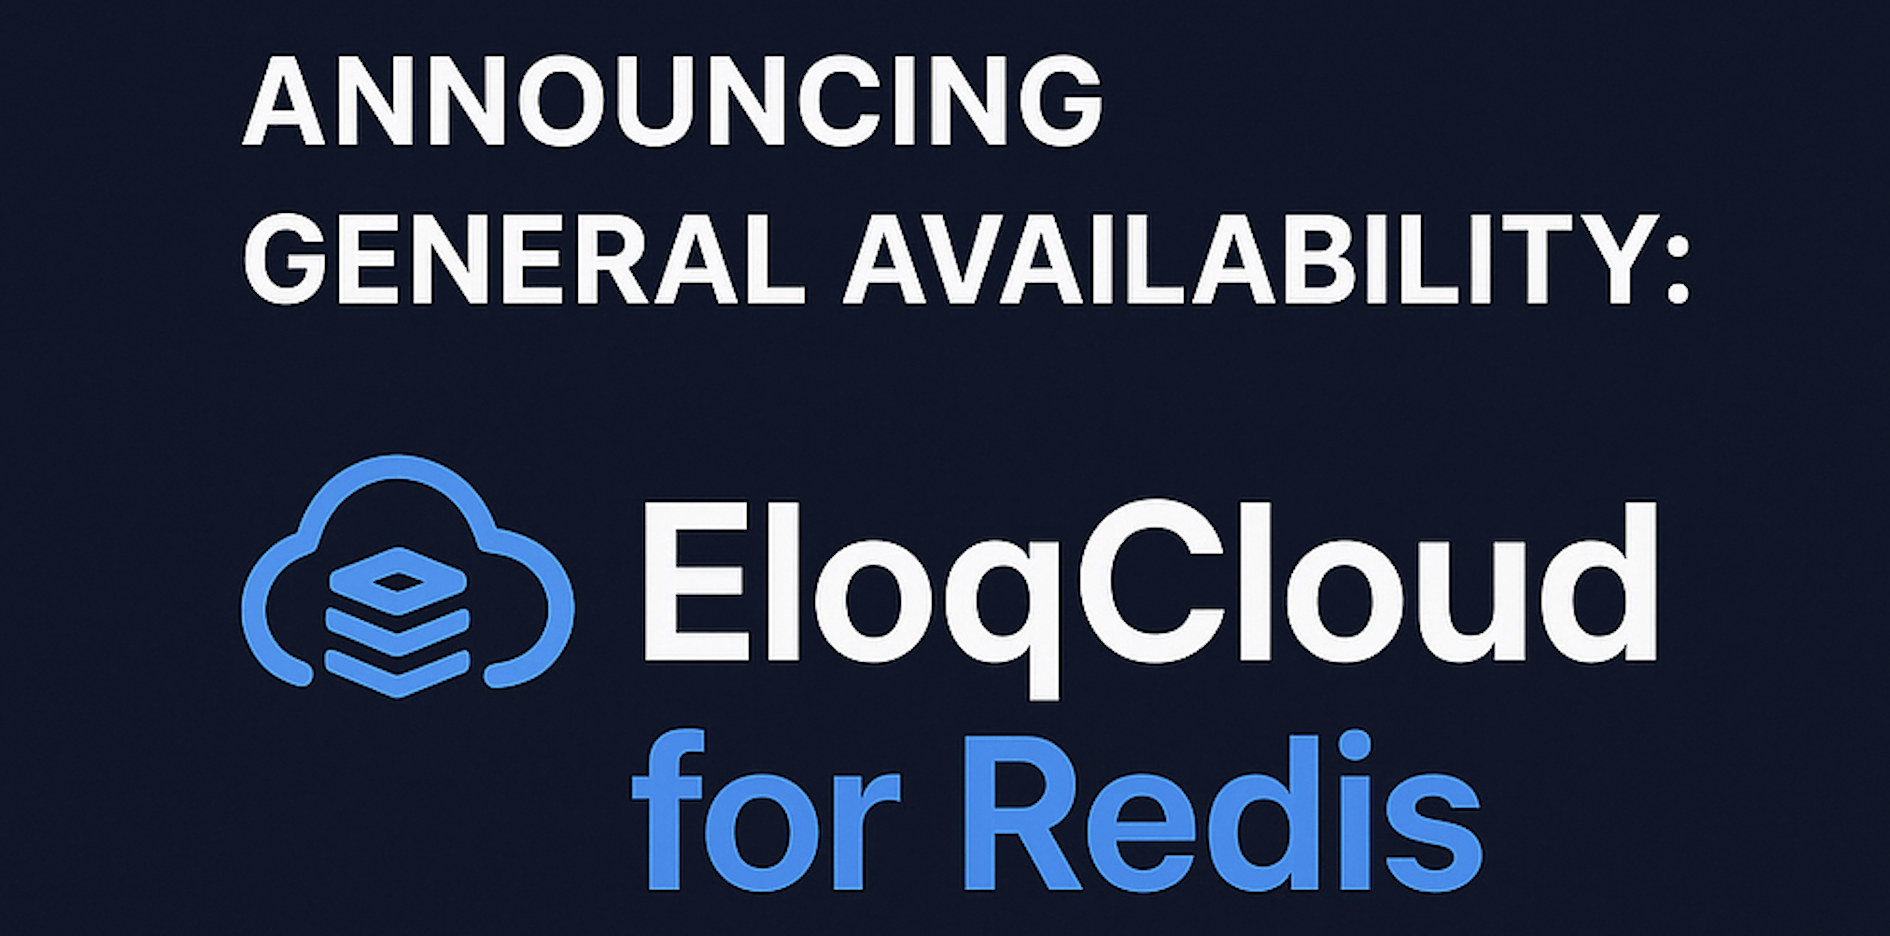
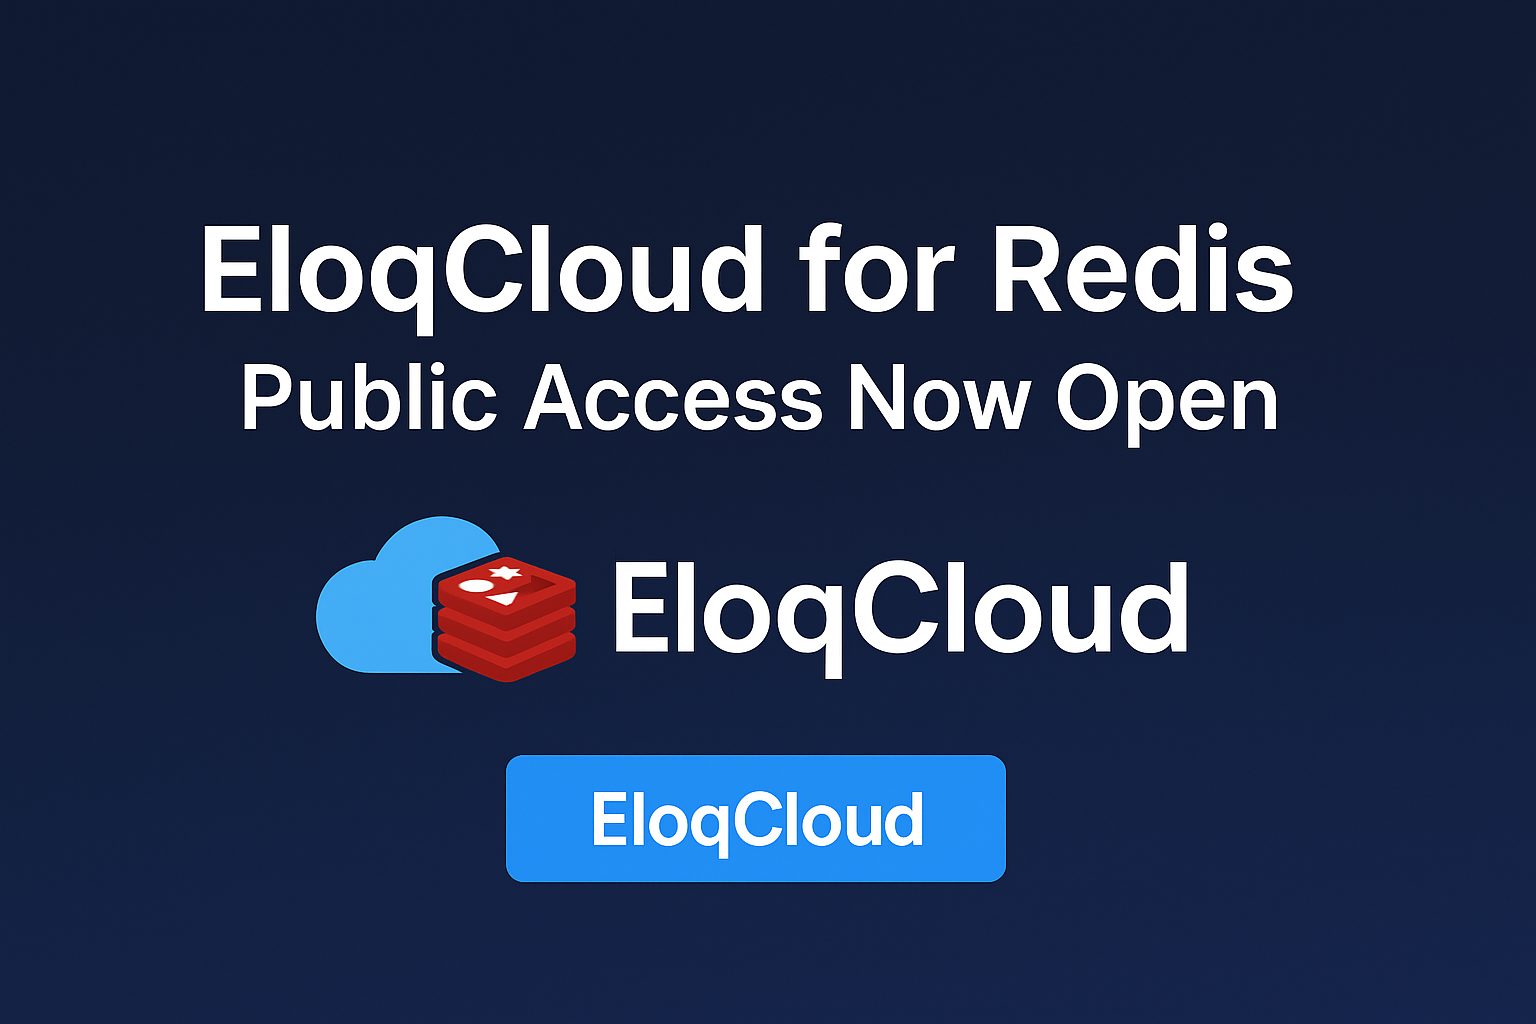
Translate News

diff --git a/website/newsposts/2025-04-29-eloqcloud/index.md b/website/newsposts/2025-04-29-eloqcloud/index.md
@@ -1,90 +1,92 @@
 ---
-title: 'Announcing General Availability: EloqCloud for Redis'
+title: 'EloqCloud for Redis：现已开放公共访问'
 authors: eloq
 date: 2025-04-29
 tags: [Product]
 news: true
 image: /img/blog/eloqcloud_announce.png
-description: Announcing our first cloud native offering EloqCloud for Redis - a cloud-native transactional key-value database with full Redis API compatibility.
+description: 宣布我们的首个云原生产品 EloqCloud for Redis - 一个兼容Redis API的云原生事务型键值数据库。
 newsFeatured: true
 ---
 
-We’re excited to announce the **General Availability (GA)** of **EloqCloud for Redis**, the first product in the EloqCloud family!
+我们很高兴地宣布 **EloqCloud for Redis** 的**公共访问**现已开放，这是 EloqCloud 产品系列的第一个产品！
 
 <!--truncate-->
 
-**EloqCloud** is the SaaS platform for **EloqDB**, designed to deliver an **economical, scalable, and predictable** cloud experience for developers — using the APIs they already love.
+**EloqCloud** 是 **EloqDB** 的 SaaS 平台，旨在为开发者提供**经济、可扩展且可预测**的云端体验 — 并由开发者选择使用自己熟悉的 API。
 
-EloqCloud is a **product matrix**, supporting a variety of compute APIs, from **SQL**, **Redis**, **MongoDB**, **Vector**, **Graph**, and even an all-in-one solution, [ConvergedDB](/blog/2025/03/19/agentic).  
-These will roll out over time — and today, we're thrilled to introduce **EloqCloud for Redis**.
+EloqCloud 是一个**产品矩阵**，支持多种计算 API，包括 **SQL**、**Redis**、**MongoDB**、**Vector**、**Graph**，甚至还有一个全能型解决方案 [ConvergedDB](/blog/2025/03/19/agentic)。  
+这些产品将陆续推出 — 今天，我们很兴奋地介绍 **EloqCloud for Redis**。
 
-## What is EloqCloud for Redis?
+## 什么是 EloqCloud for Redis？
 
-In short, **EloqCloud for Redis** is a **cloud-native transactional key-value database** with full **Redis API compatibility**.
+简而言之，**EloqCloud for Redis** 是一个具有完整 **Redis API 兼容性**的**云原生事务型键值数据库**。
 
-Note that it's more than just a cache — it's a real database, built for **durability**, **availability**, and **performance**. Every write is **replicated before acknowledging** to the client. It supports **cross-AZ persistence** to withstand **Availability Zone failures**.
+需要注意的是，它不仅仅是一个缓存 — 它是一个真正的数据库，专为**持久性**、**可用性**和**性能**而构建。每次写入都会在**确认之前进行复制**。它支持**跨可用区持久化**以应对**可用区故障**。
 
-Here’s a closer look at its key features:
+让我们来看看它的主要特性：
 
 ---
 
-## 🔥 Key Features
+## 🔥 主要特性
 
 **1. Scale to Zero**  
-Automatically free up all compute resources when idle — and save costs. No usage? No bill.
+在空闲时自动释放所有计算资源 — 节省成本。没有使用就没有费用。
 
-**2. Dedicated Resources**  
-Choose the SKU that fits your workload. Resources are **dedicated**, ensuring **predictable performance** without noisy neighbors.
+**2. 专属资源**  
+选择适合您工作负载的规格。资源是**专属的**，确保**可预测的性能**，没有嘈杂”邻居“的影响。
 
-**3. Economic High Availability**  
-Why pay for [2x or 3x replicas](https://www.mongodb.com/docs/manual/replication) just to achieve high availability?  
-With **EloqCloud for Redis**, **one compute replica** is enough.  
-Our [Data Substrate](/blog/2024/08/11/data-substrate) architecture decouples compute, memory, log and storage, enabling:
+**3. 经济高可用**  
+为什么要为了实现高可用而支付[多副本](https://www.mongodb.com/docs/manual/replication)费用？  
+使用 **EloqCloud for Redis**，**一个计算副本**就足够了。  
+我们的[数据基层](/blog/2024/08/11/data-substrate)将计算、内存、日志和存储分离，实现：
 
-- **Automatic failover within 10 seconds**
-- **Zero data loss**
-- **Up to 70% lower costs compared to traditional HA setups**
+- **10 秒内自动故障转移**
+- **零数据丢失**
+- **与传统高可用设置相比，成本最高可降低 70%**
 
-Save big — without sacrificing reliability.
+节省大量成本 — 同时不牺牲可靠性。
 
-**4. Hybrid Storage Architecture**  
-Say goodbye to overpaying for [cloud EBS](https://aws.amazon.com/ebs/) or risking instance [local NVMe](https://docs.aws.amazon.com/AWSEC2/latest/UserGuide/ssd-instance-store.html) data loss.
+**4. 混合存储架构**  
+告别为[云端 EBS](https://aws.amazon.com/ebs/)支付过高费用或冒着实例[本地 NVMe](https://docs.aws.amazon.com/AWSEC2/latest/UserGuide/ssd-instance-store.html)数据丢失的风险。
 
-- Recent WAL is stored on EBS with multiple replica for fast recovery.
-- Historical WAL and user data are stored in **cheap, durable object storage** and cached on local nvme for ultra-fast reads.
+- 最近的 WAL 存储在具有多个副本的 EBS 上，以实现快速恢复。
+- 历史 WAL 和用户数据存储在**廉价、持久的对象存储**中，并在本地 nvme 上缓存以实现超快读取。
 
-**5. High Performance**
+**5. 高性能**
 
-- Over **1 million ops/sec** on a single node.
-- **Sub-millisecond read latencies**, matching cache services.
-- **Single-digit millisecond** write latencies — **with durability guarantees**.
+- 单节点每秒处理**超过 100 万次操作**。
+- **亚毫秒级读取延迟**，媲美缓存服务。
+- **个位数毫秒级**写入延迟 — **并具有持久性保证**。
 
-**6. Full ACID Transactions**  
-Unlike typical Redis-like services, EloqCloud for Redis supports real **ACID transactions**, with familiar **Begin / Commit / Rollback** semantics — enabling SQL-style transactional patterns over Redis API.
+**6. 完整 ACID 事务**  
+与典型的 Redis 类服务不同，EloqCloud for Redis 支持真正的 **ACID 事务**，具有熟悉的**Begin/Commit/Rollback**语义 — 通过 Redis API 实现 SQL 风格的事务模式。
 
-**7. Seamless Scalability**  
-Select the SKU that best matches your workload.  
-Auto-scaling is on our roadmap to make dynamic scaling effortless.
+**7. 无缝扩展**  
+选择最适合您工作负载的机器规格。  
+自动扩展功能在我们的 Roadmap 中，将使动态扩展变得轻而易举。
 
 ---
 
-## Get Started
+## 开始使用
 
-Ready to experience the future of cloud databases?  
-[Join the EloqCloud Waitlist](https://cloud.eloqdata.com/join-waitlist) today — and receive an exclusive invitation to try EloqCloud for Redis for free.
+准备好体验云数据库的未来了吗？  
+立即[加入 EloqCloud 等待名单](https://cloud.eloqdata.com/join-waitlist) — 获得独家邀请，免费试用 EloqCloud for Redis。
 
 <p align="center">
 <div style={{ width: '720px', textAlign: 'center'}}>
 import EnlargeableImage from '@site/src/pages/enlarge_pic';
 
-<EnlargeableImage src={require('./img/joinwaitlist.png').default} alt="Building a Data Foundation for Agentic AI Applications" />
+<EnlargeableImage src={require('./img/joinwaitlist.png').default} alt="为智能 AI 应用构建数据基础" />
 
 </div></p>
 
-📺 **Watch our quick demo video below to see EloqCloud for Redis in action!**
+📺 **观看下方的快速演示视频，了解 EloqCloud for Redis 的运行情况！**
 
 <p align="center">
 <div style={{ width: '720px', textAlign: 'center'}}>
   <video controls src="/video/eloqcloud.mp4" width="800" />
 
 </div></p>
+
+我们将在后续的博客中分享详细的基准测试结果，以及与其他 KV 存储系统的对比分析，敬请期待！

diff --git a/website/newsposts/2025-03-11-eloqsql-eloqdoc/index.md b/website/newsposts/2025-03-11-eloqsql-eloqdoc/index.md
@@ -1,0 +1,26 @@
+---
+title: 重磅发布：EloqSQL 和 EloqDoc
+authors: eloq
+date: 2025-03-11
+tags: [Product]
+news: true
+image: /img/blog/eloqsql_announce.png
+description: 宣布两款全新产品 - MySQL兼容的关系型数据库EloqSQL和MongoDB兼容的JSON文档数据库EloqDoc。
+newsFeatured: true
+---
+
+我们很高兴向您介绍 **EloqSQL** 和 **EloqDoc**，这是我们数据库产品组合中两个具有突破性的新成员。
+
+<!--truncate-->
+
+**EloqSQL** 是一个兼容 MySQL 的完全分布式关系型数据库，而 **EloqDoc** 是一个兼容 MongoDB 的分布式 JSON 文档数据库。两者都基于我们革命性的模块化[数据基层](/blog/2024/08/11/data-substrate)技术构建，继承了这一前沿架构的所有优势，包括各种规模下的最佳性能，以及具有可选隔离级别的完整分布式 ACID 事务能力，以确保数据的完整性和可靠性。
+
+[**EloqSQL**](/product/eloqsql)是一个兼容 MySQL 的分布式关系型数据库，为高性能、可扩展性、兼容性和弹性设立了新标准。它专为现代应用程序设计，支持多写入者、二级索引、跨可用区数据复制和热备份，以实现不间断运行。**EloqSQL** 经过精心设计，能够轻松处理最苛刻的工作负载，通过业界最广泛接受的 API 彻底改变了您管理和处理数据的方式。
+
+[**EloqDoc**](/product/eloqdoc)是一个兼容 MongoDB 的分布式 JSON 文档数据库，能够利用分层云存储实现无与伦比的灵活性和效率。凭借快速和动态的容量扩展，EloqDoc 可以无缝适应不断变化的需求，始终确保最佳性能。在许多场景下，它比 MongoDB 提供更好的性能，同时保持 API 兼容性和无痛迁移路径。EloqDoc 前所未有的分布式事务能力消除了传统 NoSQL 和 SQL 数据库之间的主要区别之一，将 NoSQL 技术的优势与云存储的强大功能相结合，带来卓越的数据管理体验。
+
+**EloqSQL** 和 **EloqDoc** 现已开放预览版本，您可以从我们的[网站](https://www.eloqdata.com)下载。您可以按照我们的文档学习如何设置单节点测试服务器或集群。
+
+**EloqSQL** 和 **EloqDoc** 共同代表了数据库技术的重大进步，为各种应用场景提供了强大、可扩展和高性能的解决方案。我们诚邀您探索这些新工具，与我们一起体验数据管理的未来。敬请关注更多更新和深入分析，了解这些产品如何简化您的数据基础设施并降低数据库成本。
+
+展望未来，我们对 Eloq 数据库家族的持续扩展充满期待。**数据基层**架构为我们提供了无与伦比的灵活性和敏捷性，使我们能够快速开发高质量、具有竞争力的产品，以满足现代 AI 驱动应用程序不断发展的数据需求。
